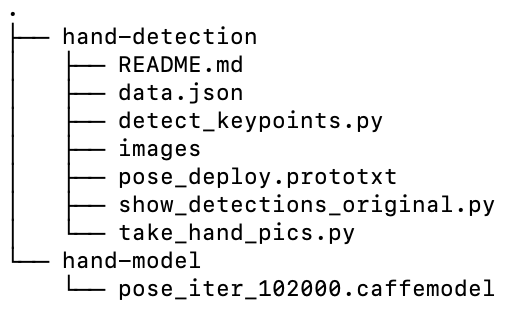
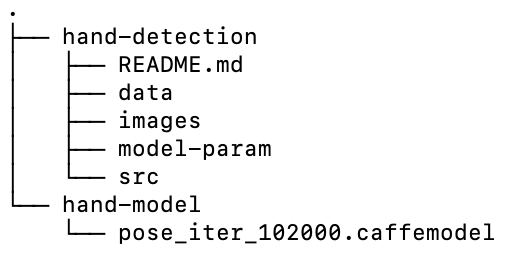
updated file tree

Changed region(s): [[0.0, 0.0276, 0.9783, 0.9646], [0.0, 0.4409, 0.0296, 0.5236]]

diff --git a/src/detect_keypoints.py b/src/detect_keypoints.py
@@ -6,20 +6,20 @@ import json
 import os
 import sys
 
-protoFile = "pose_deploy.prototxt"
-weightsFile = "../hand-model/pose_iter_102000.caffemodel"
+protoFile = "../model-param/pose_deploy.prototxt"
+weightsFile = "../../hand-model/pose_iter_102000.caffemodel"
 nPoints = 22
 POSE_PAIRS = [ [0,1],[1,2],[2,3],[3,4],[0,5],[5,6],[6,7],[7,8],[0,9],[9,10],[10,11],[11,12],[0,13],[13,14],[14,15],[15,16],[0,17],[17,18],[18,19],[19,20] ]
 net = cv2.dnn.readNetFromCaffe(protoFile, weightsFile)
 
 # read in image
-data_file_name = "data.json"
+data_file_name = "../data/data.json"
 if not os.path.exists(data_file_name): # data file exists, append new data
     print("\nData file {} does not exist, please run take_hand_pics.py to generate data.\n".format(data_file_name))
     sys.exit()
 with open(data_file_name) as json_file:
     data = json.load(json_file)
-    filepath = "images/train/"
+    filepath = "../images/train/"
     for img_index in range(1,int(data["num_pics"])+1):
         frame = cv2.imread(filepath + data["pics"][str(img_index)]["img_name"])
 
@@ -83,9 +83,9 @@ with open(data_file_name) as json_file:
         cv2.imshow('Output-Original', frameOriginal)
 
 
-        cv2.imwrite('images/keypoint-detection/Output-Keypoints.jpg', frameCopy)
-        cv2.imwrite('images/keypoint-detection/Output-Skeleton.jpg', frame)
-        cv2.imwrite('images/keypoint-detection/Output-Original.jpg', frameOriginal)
+        # cv2.imwrite('../images/keypoint-detection/Output-Keypoints.jpg', frameCopy)
+        # cv2.imwrite('../images/keypoint-detection/Output-Skeleton.jpg', frame)
+        # cv2.imwrite('../images/keypoint-detection/Output-Original.jpg', frameOriginal)
 
         print("Total time taken : {:.3f}".format(time.time() - t))
         cv2.waitKey(0)

diff --git a/src/take_hand_pics.py b/src/take_hand_pics.py
@@ -28,7 +28,7 @@ while True:
         label = input("enter label 0,1,2,3,4,5: ")
 
         # log data info
-        data_file_name = "data.json"
+        data_file_name = "../data/data.json"
 
         # save data
         if os.path.exists(data_file_name): # data file exists, append new data
@@ -45,7 +45,7 @@ while True:
         with open(data_file_name, "w") as json_file:
             json.dump(data, json_file)
 
-        filepath = "images/train/"
+        filepath = "../images/train/"
         cv2.imwrite(filepath+img_name, frame)
         print("    {} written!".format(img_name))
         img_counter += 1
